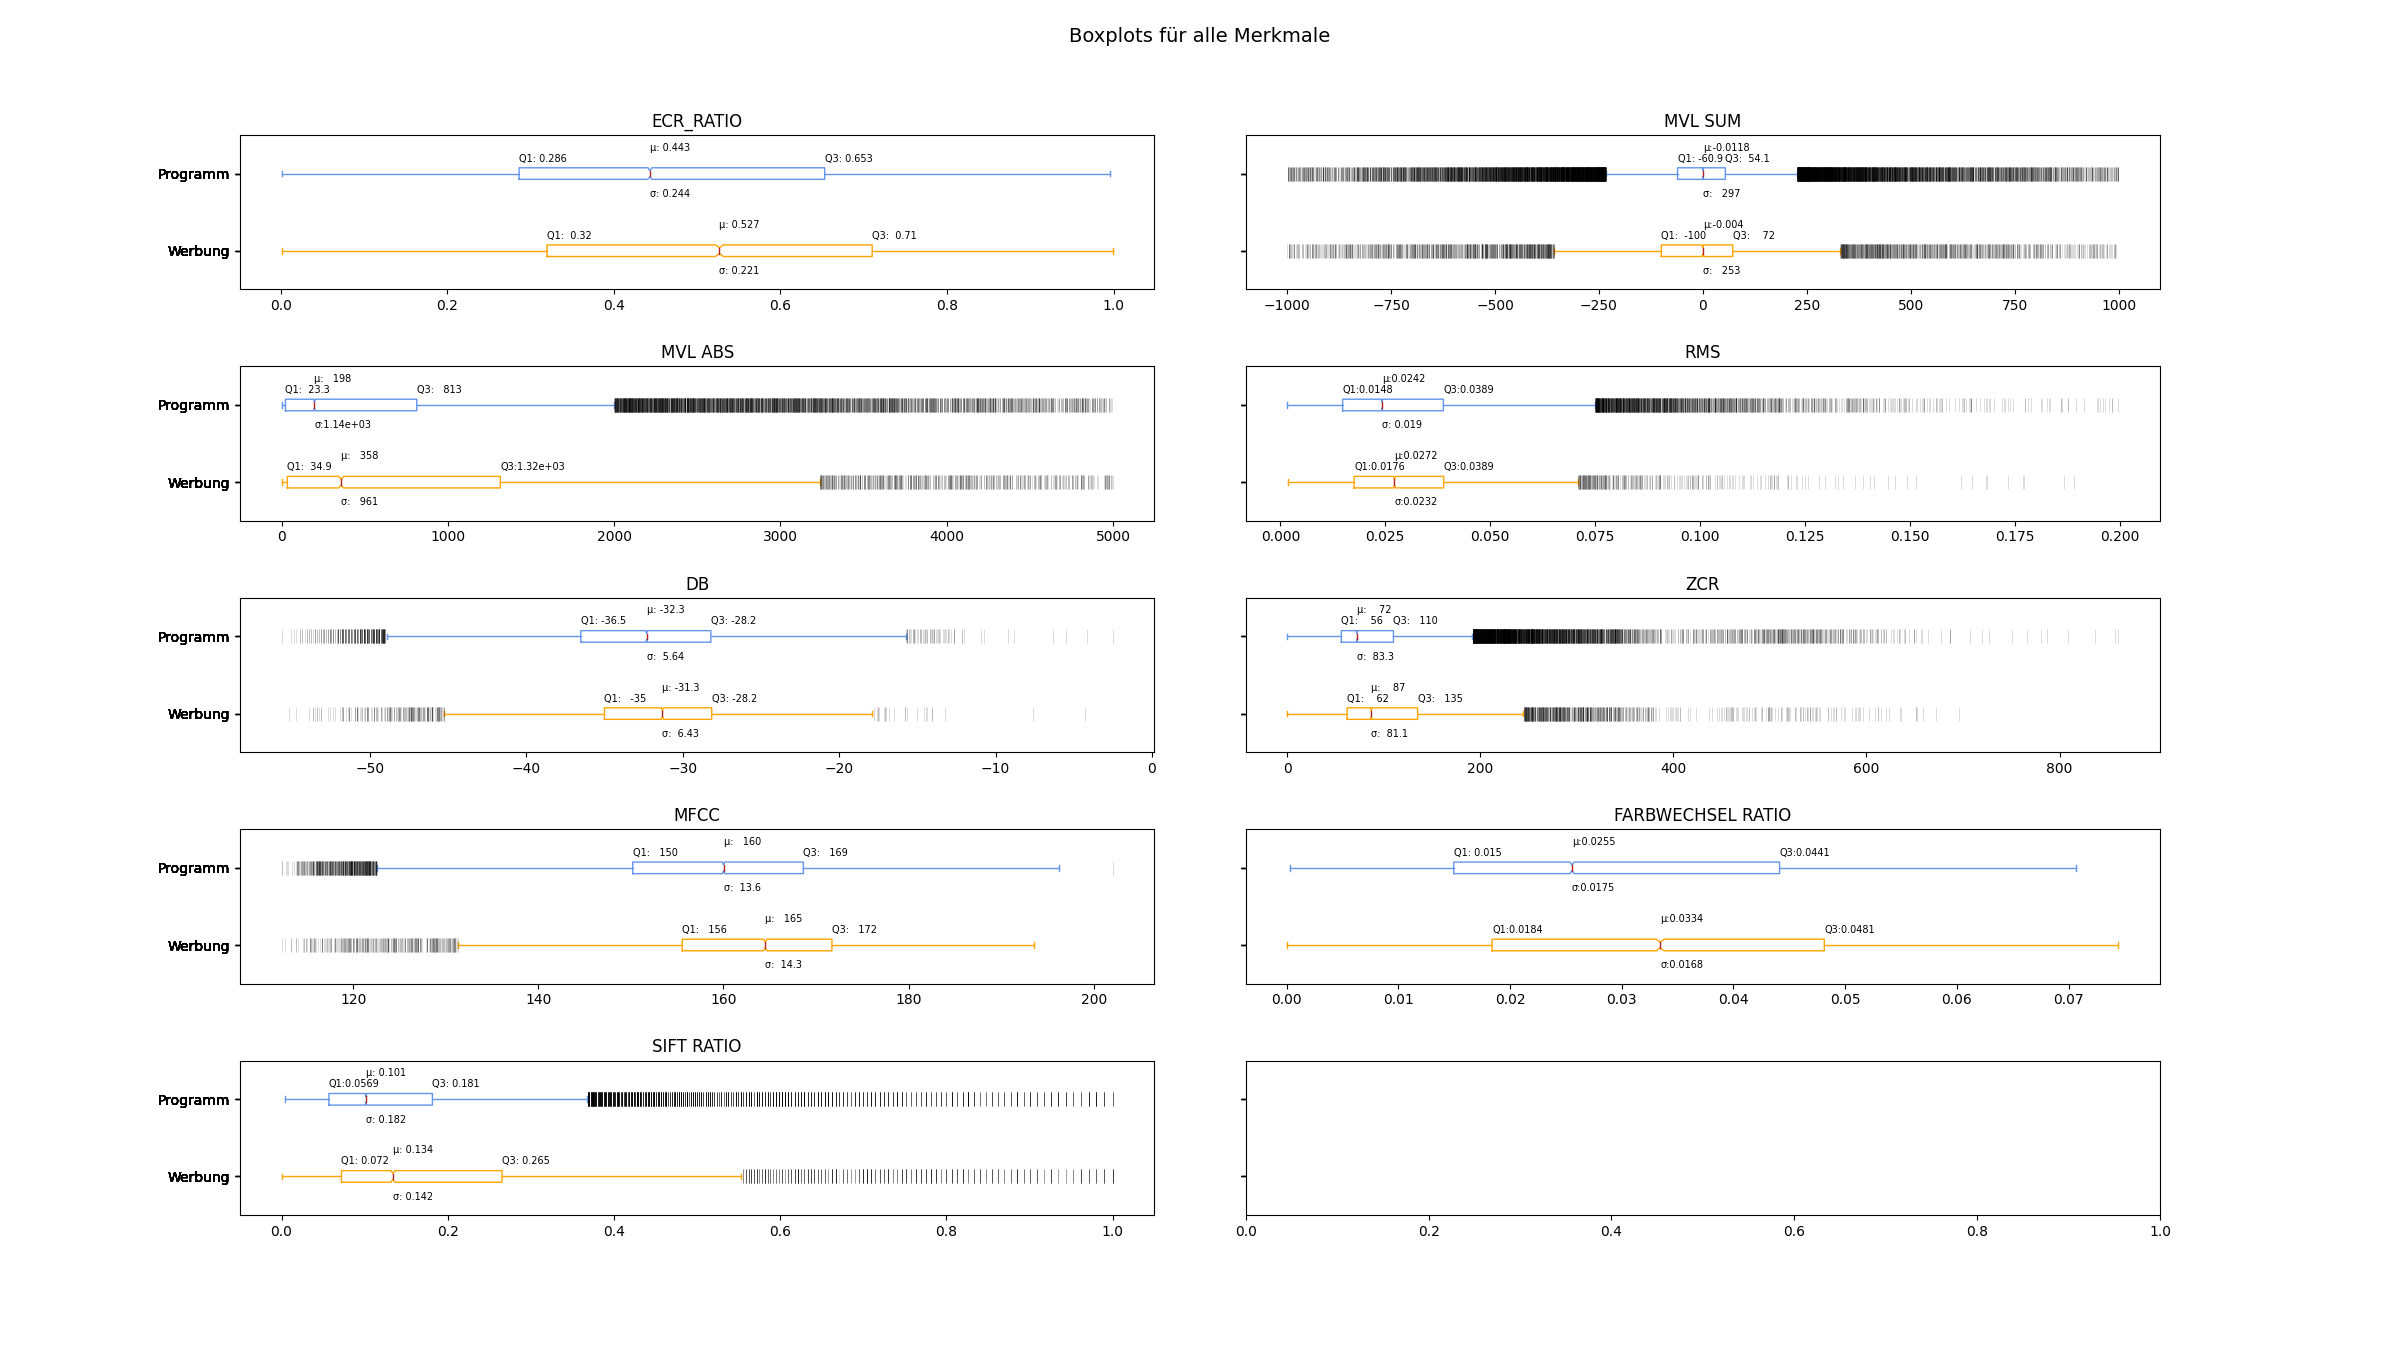
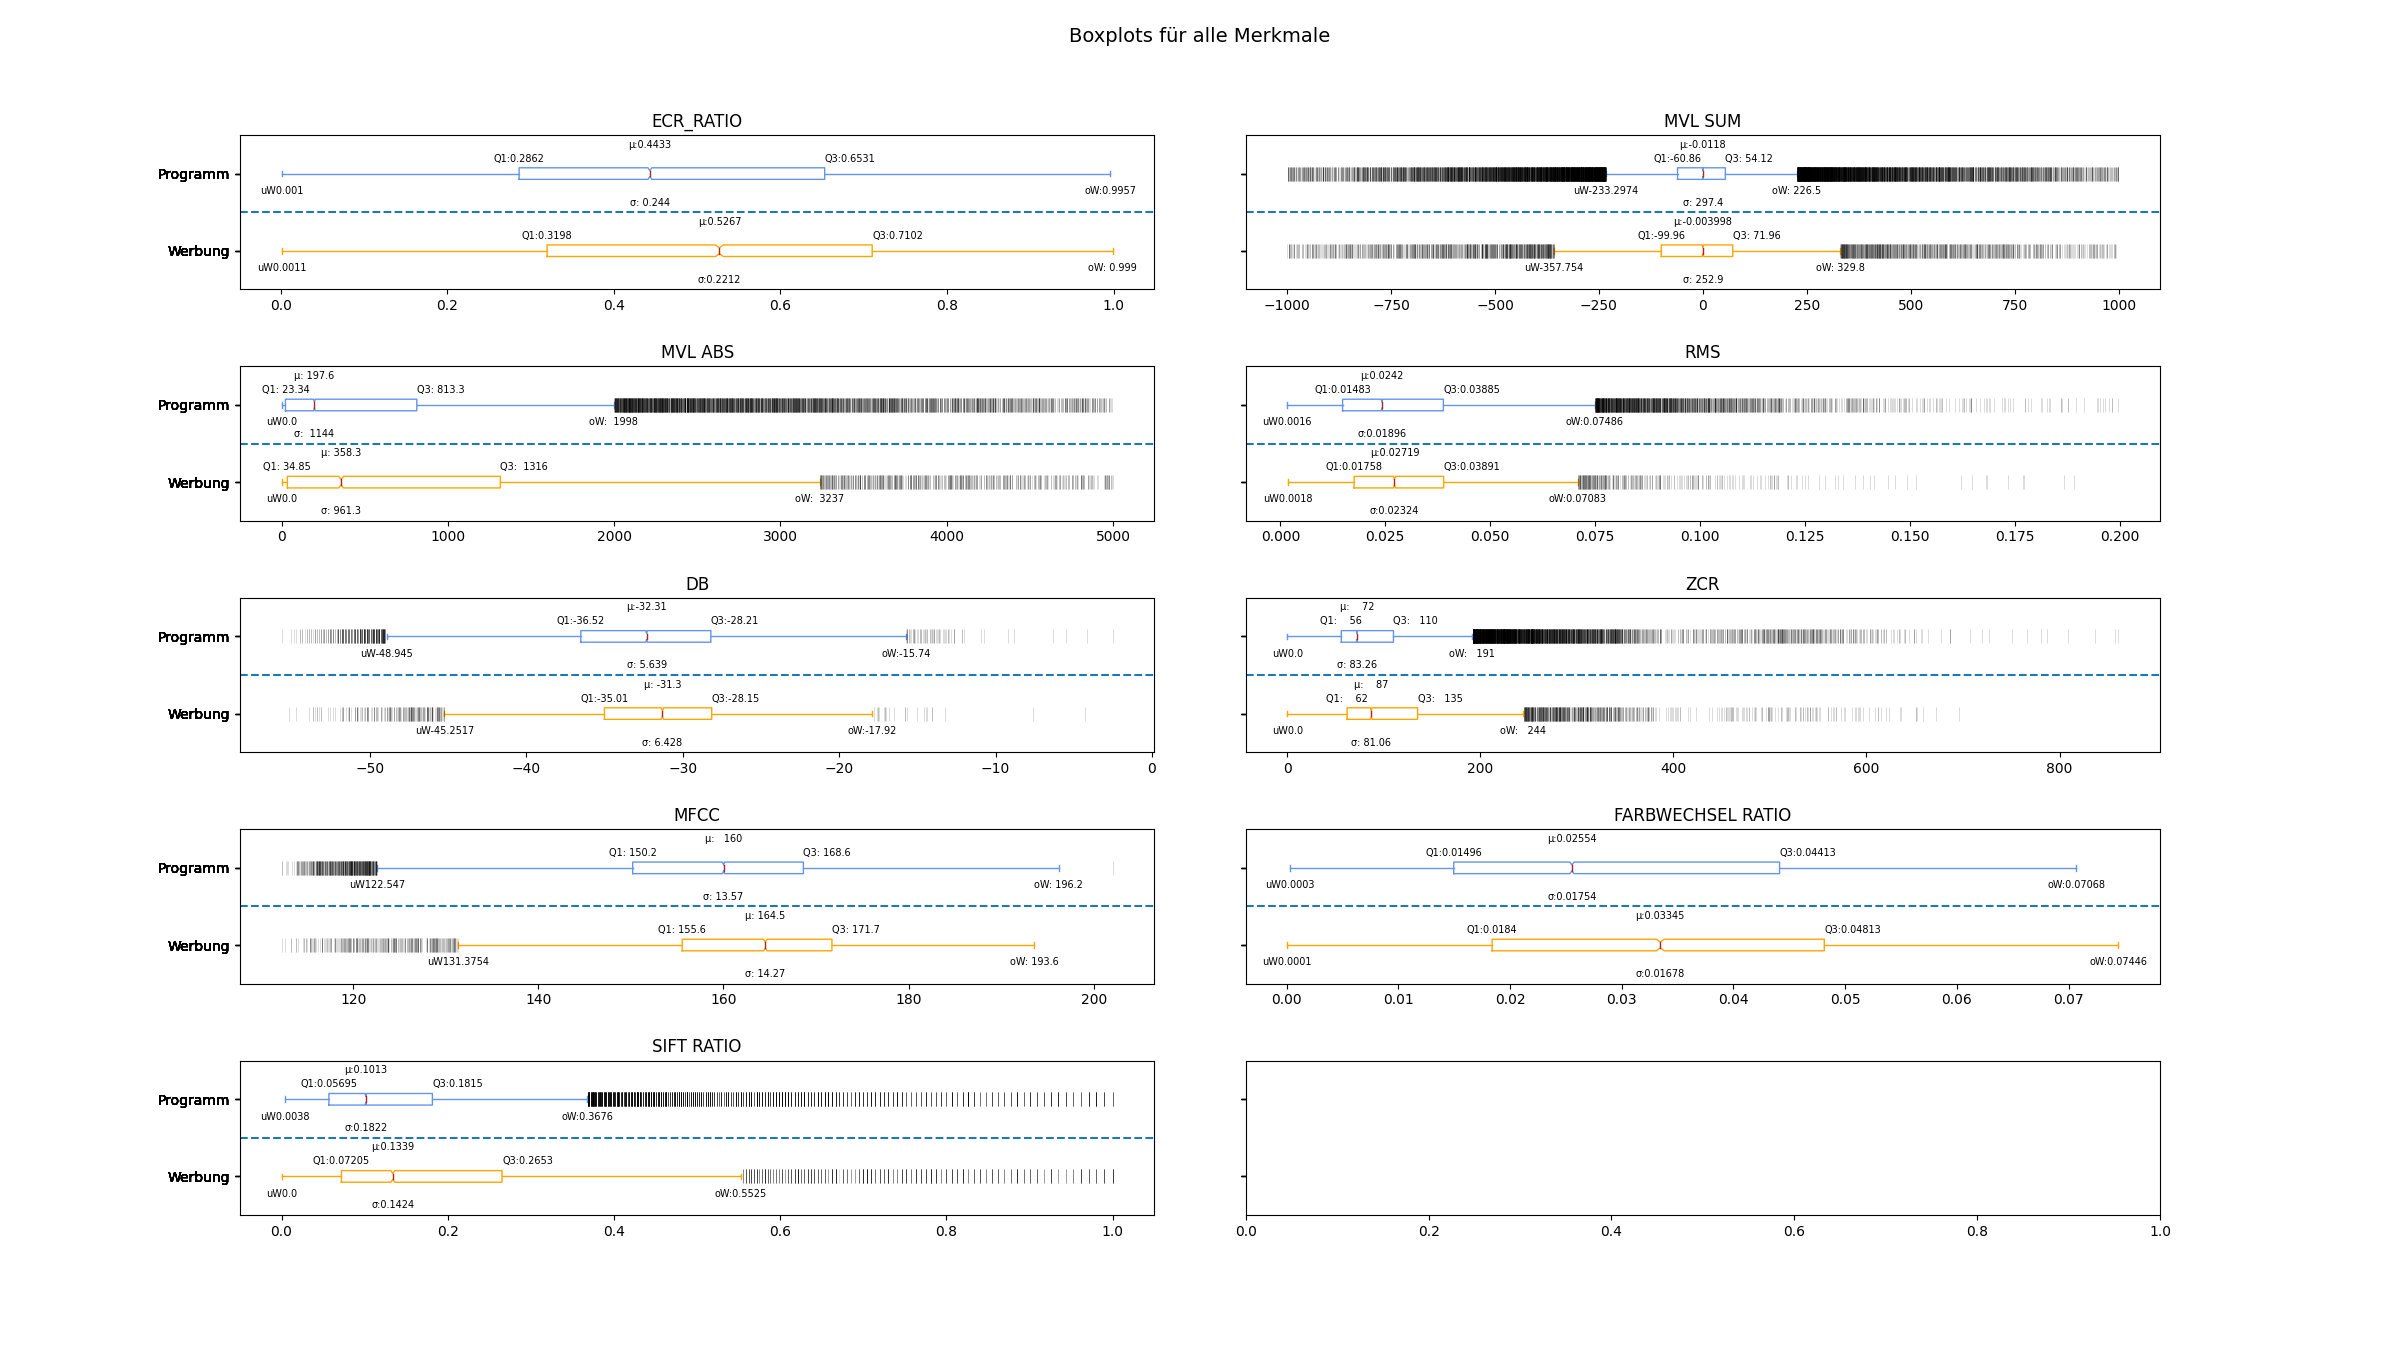
boxplot finished

diff --git a/analysis/analysis.py b/analysis/analysis.py
@@ -270,6 +270,7 @@ def createBoxplots(columnArray,dataFrames):
                 red_square = dict(marker="|",mew=0.5,markersize=10,alpha=.1)
                 box_dict=ax.boxplot(my_dict.values(),vert=False,labels=("Werbung","Programm"),medianprops=medianprops,showcaps=True,notch=True,flierprops=red_square)
                 ax.set(title=x)
+                [ax.axhline(y=i, linestyle='--') for i in [1.5]]
                 c = COLOR_FOR_WERBUNG
                 colors = [COLOR_FOR_WERBUNG,COLOR_FOR_PROGRAMM]
                 #newAx[0] = plt.boxplot(dataFrames[0][x], notch=True, patch_artist=False)
@@ -298,22 +299,38 @@ def createBoxplots(columnArray,dataFrames):
                         if item=="boxes":
                             pc25 = sub_item.get_xdata().min()
                             pc75 = sub_item.get_xdata().max()
-                            ax.text(pc25, ylabel+yoff*0.8,'Q1:{:6.3g}'.format(pc25), va='center')
-                            ax.text(pc75, ylabel+yoff*0.8,'Q3:{:6.3g}'.format(pc75), va='center')        
+                            # sizeOfBox=abs(pc75-pc25)
+                            # sizeOfXAxis=[abs(number) for number in ax.get_xlim()]
+                            # sizeOfAxis=sum(sizeOfXAxis)
+                            # ratioForOffset = sizeOfBox/sizeOfAxis
+                            # sizeOfOffset=(1-ratioForOffset)*sizeOfBox
+                            # print(sizeOfAxis)
+                            # print(sizeOfOffset)
+                            ax.text(pc25, ylabel+yoff*0.8,'Q1:{:6.4g}'.format(pc25), va='center', ha='center')
+                            ax.text(pc75, ylabel+yoff*0.8,'Q3:{:6.4g}'.format(pc75), va='center')        
                         if item == "medians":
                             median = sub_item.get_xdata()[1]
-                            ax.text(median, ylabel+yoff*4,u'\u03bc:{:6.3g}'.format(median), va='center')
-                            ax.text(median, ylabel-yoff*4,'σ:{:6.3g}'.format(dataFrames[marklabelCounter][x].std()), va='center')
+                            ax.text(median, ylabel+yoff*4.5,u'\u03bc:{:6.4g}'.format(median), va='center',ha='center')
+                            ax.text(median, ylabel-yoff*5.5,'σ:{:6.4g}'.format(dataFrames[marklabelCounter][x].std()), va='center',ha='center')
                             
-
+                
                 for item in ['whiskers', 'caps']:
+                    counter=-2
                     for sub_items,color in zip(zip(box_dict[item][::2],box_dict[item][1::2]),colors):
+                        counter+=2
                         plt.setp(sub_items, color=color)
-                        if item == "caps":
-                            capbottom = sub_item.get_xdata()[0]
-                            captop = sub_item .get_xdata()[0]
-                            ax.text(-10, ylabel-30,'m:{:6.3g}'.format(capbottom), va='center')
-                            ax.text(-10, ylabel-30,'M:{:6.3g}'.format(captop), va='center')
+                        if item == "whiskers":
+                            capbottom = box_dict["whiskers"][counter].get_xdata()[1]
+                            captop = box_dict["whiskers"][counter+1].get_xdata()[1]
+                            ypos = box_dict["whiskers"][counter].get_ydata()
+                            yoff = (ypos[1] - ypos[0])
+                            yoff=0.15
+                            ylabel = ypos[1]
+                            # print(capbottom)
+                            # print(captop)
+                            # print(x)
+                            ax.text(capbottom, ylabel-yoff*1.5,'uW'+str(round(capbottom,4)), va='center',ha="center")
+                            ax.text(captop, ylabel-yoff*1.5,'oW:{:6.4g}'.format(captop), va='center',ha="center")
                 plt.rc('font', size=10) 
 
     manager=plt.get_current_fig_manager()
@@ -350,14 +367,14 @@ dfProgramm = specificDataFrame[specificDataFrame['LABEL'] == "Programm"]
 ## CREATE BOXPLOTS ##
 createBoxplots(columnArray,[dfProgramm,dfWerbung])
 
-## CREATE HEATMAPS ##
-createHeatmaps([dfProgramm.corr(),dfWerbung.corr()])
+# ## CREATE HEATMAPS ##
+# createHeatmaps([dfProgramm.corr(),dfWerbung.corr()])
 
-# ## PRINT SUM Histograms ##
-createSumWerbungProgramHistograms([dfProgramm,dfWerbung],STATUSES,columnArray)
+# # ## PRINT SUM Histograms ##
+# createSumWerbungProgramHistograms([dfProgramm,dfWerbung],STATUSES,columnArray)
 
-for x in columnArray:
-    createScatters(dfProgramm,dfWerbung,x,columnArray)
+# for x in columnArray:
+#     createScatters(dfProgramm,dfWerbung,x,columnArray)
 
 # dfWerbung.describe().to_csv(OUTPUT_PATH+"WerbungDescribe.csv")
 # dfProgramm.describe().to_csv(OUTPUT_PATH+"ProgrammDescribe.csv")
